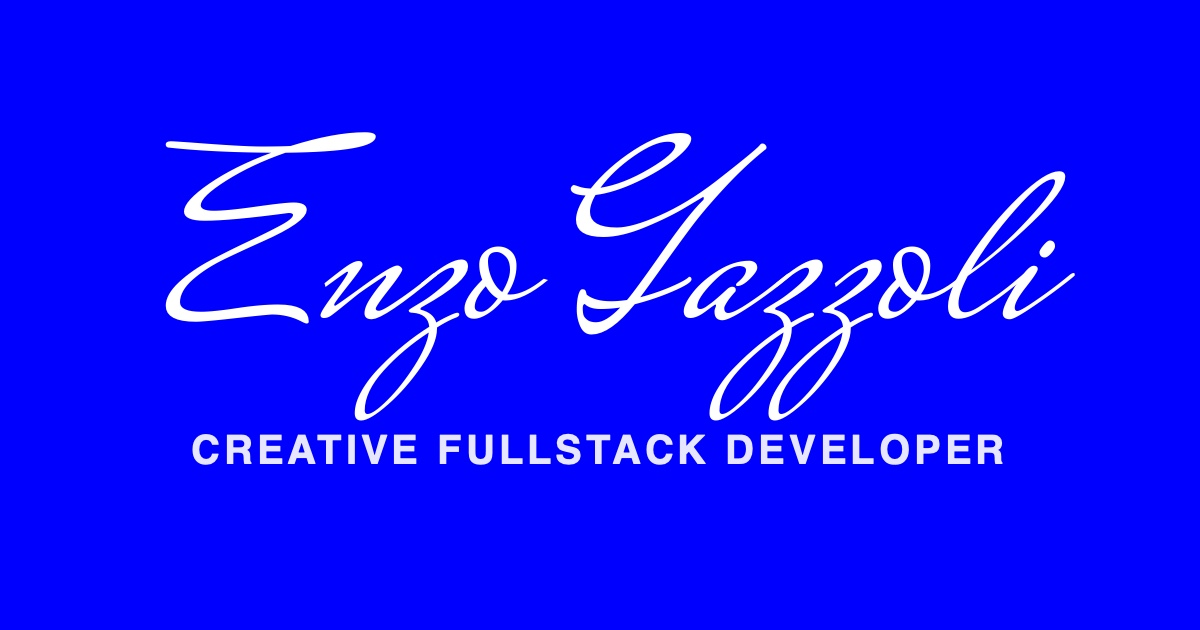
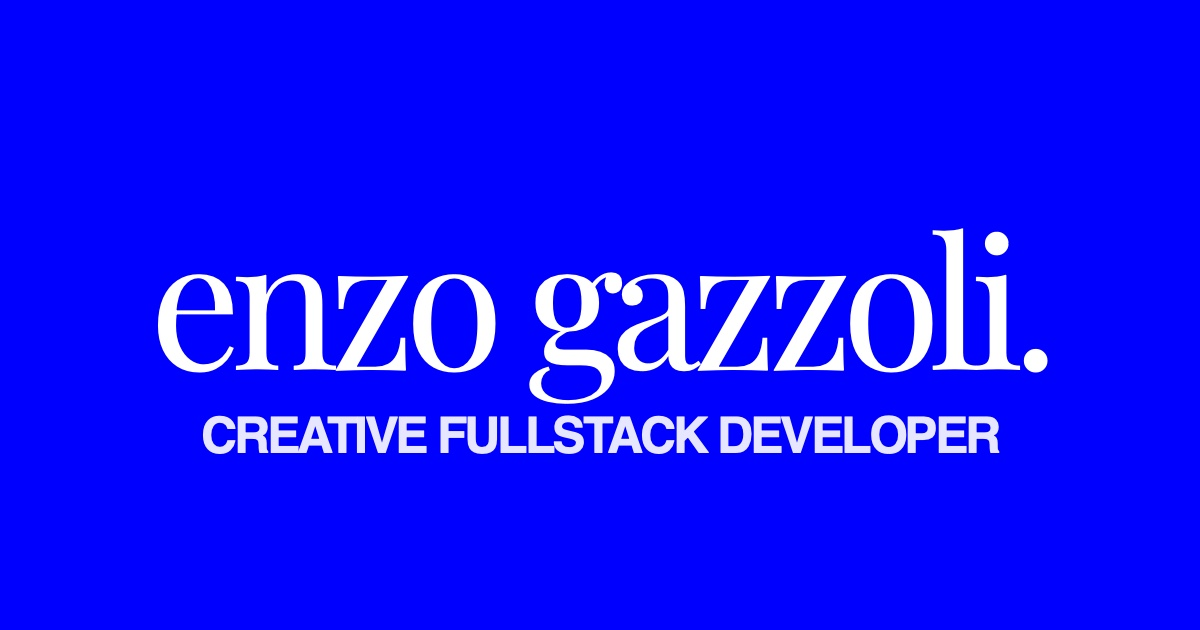
update: refine branding identity and og image

Changed region(s): [[0.1233, 0.2111, 0.8942, 0.754], [0.6167, 0.2111, 0.6475, 0.2714]]

diff --git a/src/app/layout.tsx b/src/app/layout.tsx
@@ -9,8 +9,8 @@ const playfair = Playfair_Display({
 });
 
 export const metadata: Metadata = {
-  title: "Enzo Gazzoli",
-  description: "Portfolio of Enzo Gazzoli, a creative developer and freelance designer based in Nancy, France. Specializing in Next.js, immersive web experiences, and digital design.",
+  title: "enzo gazzoli.",
+  description: "Portfolio of Enzo Gazzoli, a creative fullstack developer and freelance designer based in Nancy, France. Specializing in Next.js, immersive web experiences, and digital design.",
   keywords: ["Creative Developer", "Freelance", "Web Design", "Nancy", "Next.js", "React", "3D Web", "Front-end Developer", "Portfolio", "Remote", "Fullstack"],
   authors: [{ name: "Enzo Gazzoli" }],
   viewport: "width=device-width, initial-scale=1, maximum-scale=1",
